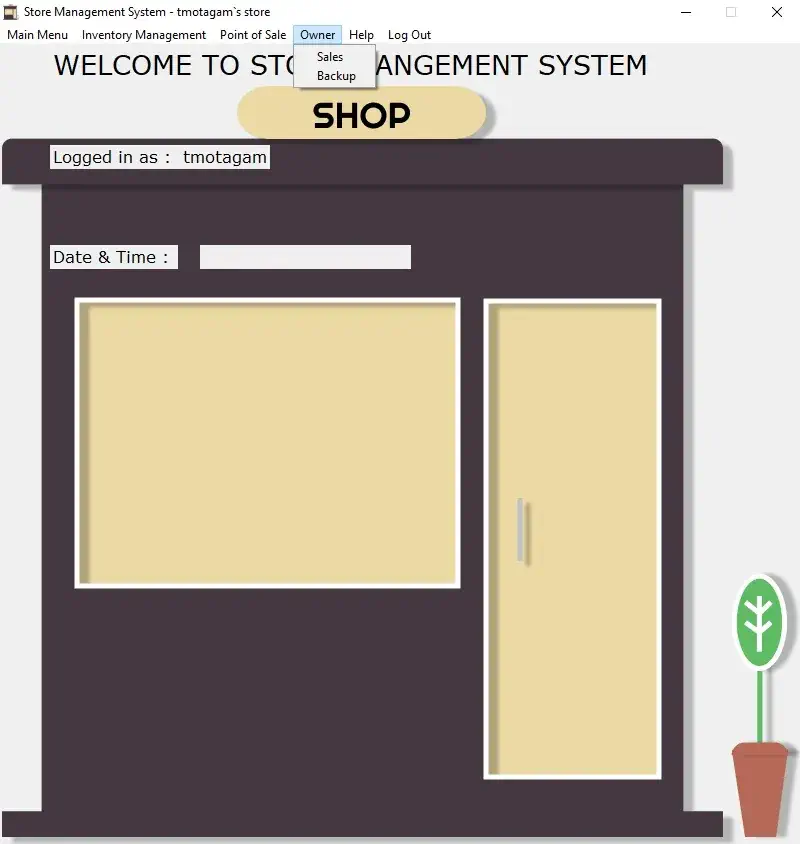
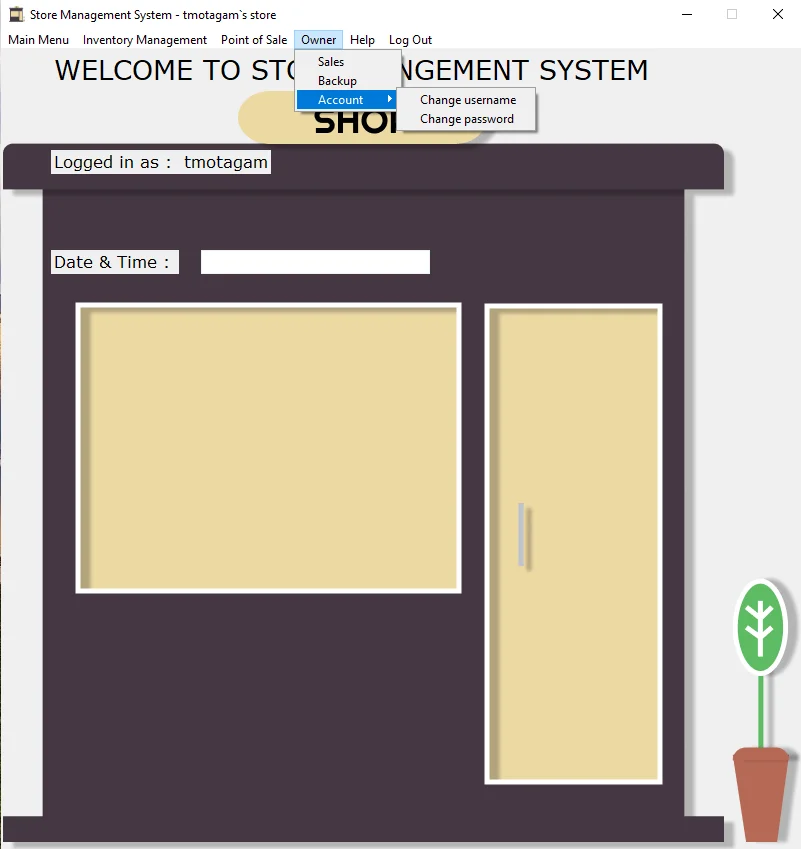
sms v 1.0.8

diff --git a/pages/projects/index.html b/pages/projects/index.html
@@ -54,7 +54,8 @@
                     <div class="card-body text-secondary">
                         <p class="card-title h5" style="color: #b76957; display: inline; padding-right: 3.5px;">Store Management System</p>
                         <img src="/public/images/StoreManagementSystemIcon.webp" style="display: inline;" width="50" height="50" alt="">
-                        <!-- <p class="card-title h5" style="background: linear-gradient(to right, #f32170, #ff6b08, #cf23cf, #ef8c22); -webkit-text-fill-color: transparent; background-clip: text; -webkit-background-clip: text; display: inline; padding-right: 3.5px;">Latest version 1.0.7</p> -->
+                        <p class="card-title h5" style="background: linear-gradient(to right, #f32170, #ff6b08, #cf23cf, #ef8c22); -webkit-text-fill-color: transparent; background-clip: text; -webkit-background-clip: text; padding-right: 3.5px;">Latest Version 1.0.8</p>
+                        <p class="card-text h5" style="background: linear-gradient(to right, #f32170, #ff6b08, #cf23cf, #ef8c22); -webkit-text-fill-color: transparent; background-clip: text; -webkit-background-clip: text; padding-right: 3.5px;">Last Updated: 10-26-2022</p>
                         <p class="card-text">System which works as electronic notebook for keeping records</p>
                         <p class="card-text h6">Features: </p>
                         <p class="card-text">1. Billing system / POS</p>
@@ -70,7 +71,8 @@
                     <div class="card-body text-secondary">
                         <p class="card-title h5" style="color: #c999e8; display: inline; padding-right: 3.5px;">TahaFacex</p>
                         <img src="/public/images/tahafacex.webp" style="display: inline;" width="50" height="50" alt="">
-                        <!-- <p class="card-title h5" style="background: linear-gradient(to right, #f32170, #ff6b08, #cf23cf, #ef8c22); -webkit-text-fill-color: transparent; background-clip: text; -webkit-background-clip: text; display: inline; padding-right: 3.5px;">Latest version 1.1.5</p> -->
+                        <p class="card-title h5" style="background: linear-gradient(to right, #f32170, #ff6b08, #cf23cf, #ef8c22); -webkit-text-fill-color: transparent; background-clip: text; -webkit-background-clip: text; padding-right: 3.5px;">Latest Version 1.1.5</p>
+                        <p class="card-text h5" style="background: linear-gradient(to right, #f32170, #ff6b08, #cf23cf, #ef8c22); -webkit-text-fill-color: transparent; background-clip: text; -webkit-background-clip: text; padding-right: 3.5px;">Last Updated: 05-12-2022</p>
                         <p class="card-text">It works as electronic book for keeping attendance records</p>
                         <p class="card-text h6">Features: </p>
                         <p class="card-text">1. Creating no hassel attendance records</p>
@@ -85,7 +87,8 @@
                     <div class="card-body text-secondary">
                         <p class="card-title h5" style="color: #42b3dc; display: inline; padding-right: 3.5px;">FTPT</p>
                         <img src="/public/images/ftpt.webp" style="display: inline;" width="50" height="50" alt="">
-                        <p class="card-title h5" style="background: linear-gradient(to right, #f32170, #ff6b08, #cf23cf, #ef8c22); -webkit-text-fill-color: transparent; background-clip: text; -webkit-background-clip: text; display: inline; padding-right: 3.5px;">Latest version 1.0.5</p>
+                        <p class="card-title h5" style="background: linear-gradient(to right, #f32170, #ff6b08, #cf23cf, #ef8c22); -webkit-text-fill-color: transparent; background-clip: text; -webkit-background-clip: text; padding-right: 3.5px;">Latest version 1.0.5</p>
+                        <p class="card-text h5" style="background: linear-gradient(to right, #f32170, #ff6b08, #cf23cf, #ef8c22); -webkit-text-fill-color: transparent; background-clip: text; -webkit-background-clip: text; padding-right: 3.5px;">Last Updated: 06-19-2022</p>
                         <p class="card-text">File Transfer system created using FTP protocol</p>
                         <p class="card-text h6">Features: </p>
                         <p class="card-text">1. Secure connection for transfer</p>
@@ -99,6 +102,8 @@
                     <div class="card-body text-secondary">
                         <p class="card-title h5" style="color: #01a5a4; display: inline; padding-right: 3.5px;">OPE</p>
                         <img src="/public/images/ope.webp" style="display: inline;" width="50" height="50" alt="">
+                        <p class="card-text h5" style="background: linear-gradient(to right, #f32170, #ff6b08, #cf23cf, #ef8c22); -webkit-text-fill-color: transparent; background-clip: text; -webkit-background-clip: text; padding-right: 3.5px;">Latest Version: 1.0.0</p>
+                        <p class="card-text h5" style="background: linear-gradient(to right, #f32170, #ff6b08, #cf23cf, #ef8c22); -webkit-text-fill-color: transparent; background-clip: text; -webkit-background-clip: text; padding-right: 3.5px;">Last Updated: 11-15-2020</p>
                         <p class="card-text">System for secure online exam</p>
                         <p class="card-text h6">Features: </p>
                         <p class="card-text">1. Kiosk mode</p>
@@ -117,6 +122,7 @@
                     <div class="card-body text-secondary">
                         <p class="card-title h5" style="color: #b3bd60; display: inline; padding-right: 3.5px;">tmotagam.github.io</p>
                         <img src="https://avatars.githubusercontent.com/u/63451837?v=4" style="display: inline;" width="50" height="50" alt="">
+                        <p class="card-text h5" style="background: linear-gradient(to right, #f32170, #ff6b08, #cf23cf, #ef8c22); -webkit-text-fill-color: transparent; background-clip: text; -webkit-background-clip: text; padding-right: 3.5px;">Last Updated: 10-22-2022</p>
                         <p class="card-text">Site for my projects hosting</p>
                         <p class="card-text h6">Features: </p>
                         <p class="card-text">1. Open Source</p>
@@ -128,6 +134,7 @@
                     <div class="card-body text-secondary">
                         <p class="card-title h5" style="color: #58c8b8; display: inline; padding-right: 3.5px;">sqlite-electron</p>
                         <img src="/public/images/sqlite-electron.webp" style="display: inline;" width="50" height="50" alt="">
+                        <p class="card-text h5" style="background: linear-gradient(to right, #f32170, #ff6b08, #cf23cf, #ef8c22); -webkit-text-fill-color: transparent; background-clip: text; -webkit-background-clip: text; padding-right: 3.5px;">Last Updated: 07-01-2022</p>
                         <p class="card-text">Sqlite Electron is a module only for electron to use sqlite3 database without rebuilding</p>
                         <p class="card-text">For installing this library you can go to either of the links given below</p>
                         <a href="https://www.npmjs.com/package/sqlite-electron" class="text-decoration-none card-text h6 link-danger" style="padding-right: 10px;">NPM</a>
@@ -140,6 +147,7 @@
                     <div class="card-body text-secondary">
                         <p class="card-title h5" style="color: #2596be; display: inline; padding-right: 3.5px;">Secweb</p>
                         <img src="/public/images/Secweb.webp" style="display: inline;" width="138" height="50" alt="">
+                        <p class="card-text h5" style="background: linear-gradient(to right, #f32170, #ff6b08, #cf23cf, #ef8c22); -webkit-text-fill-color: transparent; background-clip: text; -webkit-background-clip: text; padding-right: 3.5px;">Last Updated: 10-18-2022</p>
                         <p class="card-text">Secweb is a pack of security middlewares for fastApi and starlette server it includes CSP, HSTS, and many more</p>
                         <p class="card-text">For installing this library you can go to either of the links given below</p>
                         <a href="https://pypi.org/project/Secweb/" class="text-decoration-none card-text h6 link-primary" style="padding-right: 10px;">PyPi</a>
@@ -153,7 +161,7 @@
         <div class="container py-5">
             <div class="row py-4">
                 <div class="col-lg-4 col-md-6 mb-4 mb-lg-0"><img src="" alt="" width="180" class="mb-3">
-                    <p class="fst-italic text-muted">Hi I am Motagamwala Taha Arif Ali also known as tmotagam. I am a Open Source developer and a newbie designer as well</p>
+                    <p class="fst-italic text-muted">Hi I am Motagamwala Taha Arif Ali also known as tmotagam. I am a Open Source developer and a designer</p>
                     
                 </div>
                 <div class="col-lg-2 col-md-6 mb-4 mb-lg-0">

diff --git a/index.html b/index.html
@@ -32,7 +32,7 @@
                 <p class="fst-italic h4 text-white">Hi I am Tmotagam</p>
             </div>
             <div class="d-flex justify-content-center align-items-center">
-                <p class="fst-italic h5 text-white">I am a Open source Developer and also a small designer.</p>
+                <p class="fst-italic h5 text-white">I am a Open source Developer and a designer.</p>
             </div><br>
             <div class="d-flex justify-content-center align-items-center">
                 <p class="fst-italic h5 text-white">You can explore my site using the links below</p>
@@ -50,7 +50,7 @@
         <div class="container py-4">
             <div class="row py-4">
                 <div class="col-lg-4 col-md-6 mb-4 mb-lg-0"><img src="" alt="" width="180" class="mb-3">
-                    <p class="fst-italic text-muted">Hi I am Motagamwala Taha Arif Ali also known as tmotagam. I am a Open Source developer and a newbie designer as well</p>
+                    <p class="fst-italic text-muted">Hi I am Motagamwala Taha Arif Ali also known as tmotagam. I am a Open Source developer and a designer</p>
                 </div>
                 <div class="col-lg-2 col-md-6 mb-4 mb-lg-0">
                     <h6 class="text-uppercase font-weight-bold mb-4">My accounts</h6>

diff --git a/pages/app/index.html b/pages/app/index.html
@@ -9,7 +9,7 @@
         <script src="/public/Js/measure.js"></script>
         <link href="/public/Css/index.css" rel="stylesheet">
         <link href="https://cdn.jsdelivr.net/npm/bootstrap@5.1.3/dist/css/bootstrap.min.css" rel="stylesheet" integrity="sha384-1BmE4kWBq78iYhFldvKuhfTAU6auU8tT94WrHftjDbrCEXSU1oBoqyl2QvZ6jIW3" crossorigin="anonymous">
-        <title>tmotagam | Projects</title>
+        <title>tmotagam | Apps</title>
         <meta property="og:title" content="tmotagam">
         <meta property="og:locale" content="en_US">
         <meta name="description" content="My Website">
@@ -73,7 +73,7 @@
         <div class="container py-5">
             <div class="row py-4">
                 <div class="col-lg-4 col-md-6 mb-4 mb-lg-0"><img src="" alt="" width="180" class="mb-3">
-                    <p class="fst-italic text-muted">Hi I am Motagamwala Taha Arif Ali also known as tmotagam. I am a Open Source developer and a newbie designer as well</p>
+                    <p class="fst-italic text-muted">Hi I am Motagamwala Taha Arif Ali also known as tmotagam. I am a Open Source developer and a designer</p>
                     
                 </div>
                 <div class="col-lg-2 col-md-6 mb-4 mb-lg-0">

diff --git a/404.html b/404.html
@@ -57,7 +57,7 @@
         <div class="container py-5">
             <div class="row py-4">
                 <div class="col-lg-4 col-md-6 mb-4 mb-lg-0"><img src="" alt="" width="180" class="mb-3">
-                    <p class="fst-italic text-muted">Hi I am Motagamwala Taha Arif Ali also known as tmotagam. I am a Open Source developer and a newbie designer as well</p>
+                    <p class="fst-italic text-muted">Hi I am Motagamwala Taha Arif Ali also known as tmotagam. I am a Open Source developer and a designer</p>
                     
                 </div>
                 <div class="col-lg-2 col-md-6 mb-4 mb-lg-0">

diff --git a/licenses/index.html b/licenses/index.html
@@ -51,7 +51,7 @@
         <div class="container py-5">
             <div class="row py-4">
                 <div class="col-lg-4 col-md-6 mb-4 mb-lg-0"><img src="" alt="" width="180" class="mb-3">
-                    <p class="fst-italic text-muted">Hi I am Motagamwala Taha Arif Ali also known as tmotagam. I am a Open Source developer and a newbie designer as well</p>
+                    <p class="fst-italic text-muted">Hi I am Motagamwala Taha Arif Ali also known as tmotagam. I am a Open Source developer and a designer</p>
                     
                 </div>
                 <div class="col-lg-2 col-md-6 mb-4 mb-lg-0">

diff --git a/pages/Contact/index.html b/pages/Contact/index.html
@@ -58,7 +58,7 @@
         <div class="container py-5">
             <div class="row py-4">
                 <div class="col-lg-4 col-md-6 mb-4 mb-lg-0"><img src="" alt="" width="180" class="mb-3">
-                    <p class="fst-italic text-muted">Hi I am Motagamwala Taha Arif Ali also known as tmotagam. I am a Open Source developer and a newbie designer as well</p>
+                    <p class="fst-italic text-muted">Hi I am Motagamwala Taha Arif Ali also known as tmotagam. I am a Open Source developer and a designer</p>
                     
                 </div>
                 <div class="col-lg-2 col-md-6 mb-4 mb-lg-0">

diff --git a/pages/about me/index.html b/pages/about me/index.html
@@ -57,7 +57,7 @@
         <div class="container py-5">
             <div class="row py-4">
                 <div class="col-lg-4 col-md-6 mb-4 mb-lg-0"><img src="" alt="" width="180" class="mb-3">
-                    <p class="fst-italic text-muted">Hi I am Motagamwala Taha Arif Ali also known as tmotagam. I am a Open Source developer and a newbie designer as well</p>
+                    <p class="fst-italic text-muted">Hi I am Motagamwala Taha Arif Ali also known as tmotagam. I am a Open Source developer and a designer</p>
                     
                 </div>
                 <div class="col-lg-2 col-md-6 mb-4 mb-lg-0">

diff --git a/update/index.html b/update/index.html
@@ -60,7 +60,7 @@
         <div class="container py-5">
             <div class="row py-4">
                 <div class="col-lg-4 col-md-6 mb-4 mb-lg-0"><img src="" alt="" width="180" class="mb-3">
-                    <p class="fst-italic text-muted">Hi I am Motagamwala Taha Arif Ali also known as tmotagam. I am a Open Source developer and a newbie designer as well</p>
+                    <p class="fst-italic text-muted">Hi I am Motagamwala Taha Arif Ali also known as tmotagam. I am a Open Source developer and a designer</p>
                     
                 </div>
                 <div class="col-lg-2 col-md-6 mb-4 mb-lg-0">

diff --git a/pages/markdown/sms_docs.md b/pages/markdown/sms_docs.md
@@ -168,10 +168,11 @@
 #### Now Enter the amount if the consumer gives you cash or else click on the `Payment using other payment options` button.
 #### Once the payment is sucessful bill will be printed.
 
-#### Now the third menubar option is `Owner` this will only be available to the owner of the application and not to the employees.
-#### It has 2 sub option.
+#### Now the third menubar option is `Owner` this will only be available to the owner of the application.
+#### It has 3 sub option.
 ##### (1) Sales Analytics page
 ##### (2) Backup
+##### (3) Account
 
 ![Usage Instruction](../../public/data/sms/u21.webp)
 
@@ -185,9 +186,31 @@
 
 ![Usage Instruction](../../public/data/sms/u23.webp)
 
-#### The last menubar option is `Help` option this has been updated for the new website
+### Let`s see the (3) Account
+#### Click on the owner menu item and then click on the `Account` sub option to reveal two other sub options `Change Username` and `Change Password` to change your username and password as shown below
 
 ![Usage Instruction](../../public/data/sms/u24.webp)
+
+#### Now the third menubar option is `Employee` this will only be available to the employees.
+#### It has 2 sub option.
+##### (1) Sales Analytics page
+##### (2) Account
+
+![Usage Instruction](../../public/data/sms/u25.webp)
+
+### Let`s see the (1) Sales Analytics page.
+#### It will get all the todays sales record of that particular employee as shown below.
+
+![Usage Instruction](../../public/data/sms/u26.webp)
+
+### Let`s see the (2) Account
+#### Click on the employee menu item and then click on the `Account` sub option to reveal two other sub options `Change Username` and `Change Password` to change your username and password as shown below
+
+![Usage Instruction](../../public/data/sms/u27.webp)
+
+#### The last menubar option is `Help` option this has been updated for the new website
+
+![Usage Instruction](../../public/data/sms/u28.webp)
 
 <br>
 

diff --git a/pages/markdown/sms.md b/pages/markdown/sms.md
@@ -3,6 +3,8 @@
 
 <a href="javascript:download('sms')"><img src="/public/images/btn.d.webp" alt=""></a>
 
+<h3 style="background: linear-gradient(to right, #f32170, #ff6b08, #cf23cf, #ef8c22); -webkit-text-fill-color: transparent; background-clip: text; -webkit-background-clip: text; padding-right: 3.5px;">Last Updated: 10-26-2022</h3>
+
 ### Summary
 Shop management system which works as electronic notebook it has sales analytics and also Point of sale, creating backups and inventory system.
 
@@ -12,14 +14,13 @@ You can also see guide for Store Management System down below
 
 <br>
 
-### Latest Version -> 1.0.7
+### Latest Version -> 1.0.8
 
 #### What`s new
-Now only owners can see and use sales analytics and backup creations.
 
-Now product editing has been made easy.
+Account management added for employees and owners.
 
-Help and Product menus are also updated.
+Employees can now see their today's sales record.
 
 <br>
 

diff --git a/pages/markdown/ftpt.md b/pages/markdown/ftpt.md
@@ -3,6 +3,8 @@
 
 <a href="javascript:download('ftpt')"><img src="/public/images/btn.d.webp" alt=""></a>
 
+<h3 style="background: linear-gradient(to right, #f32170, #ff6b08, #cf23cf, #ef8c22); -webkit-text-fill-color: transparent; background-clip: text; -webkit-background-clip: text; padding-right: 3.5px;">Last Updated: 06-19-2022</h3>
+
 ### Summary
 FTPT is a file transfer system based on ftp protocol you can transfer the files or folders (any size) between pc to pc and pc to android.
 

diff --git a/pages/markdown/tfx.md b/pages/markdown/tfx.md
@@ -3,6 +3,8 @@
 
 <a href="javascript:download('tfx')"><img src="/public/images/btn.d.webp" alt=""></a>
 
+<h3 style="background: linear-gradient(to right, #f32170, #ff6b08, #cf23cf, #ef8c22); -webkit-text-fill-color: transparent; background-clip: text; -webkit-background-clip: text; padding-right: 3.5px;">Last Updated: 05-12-2022</h3>
+
 ### Summary
 It works as electronic book for keeping attendance records using face identification\recognition technology.
 
